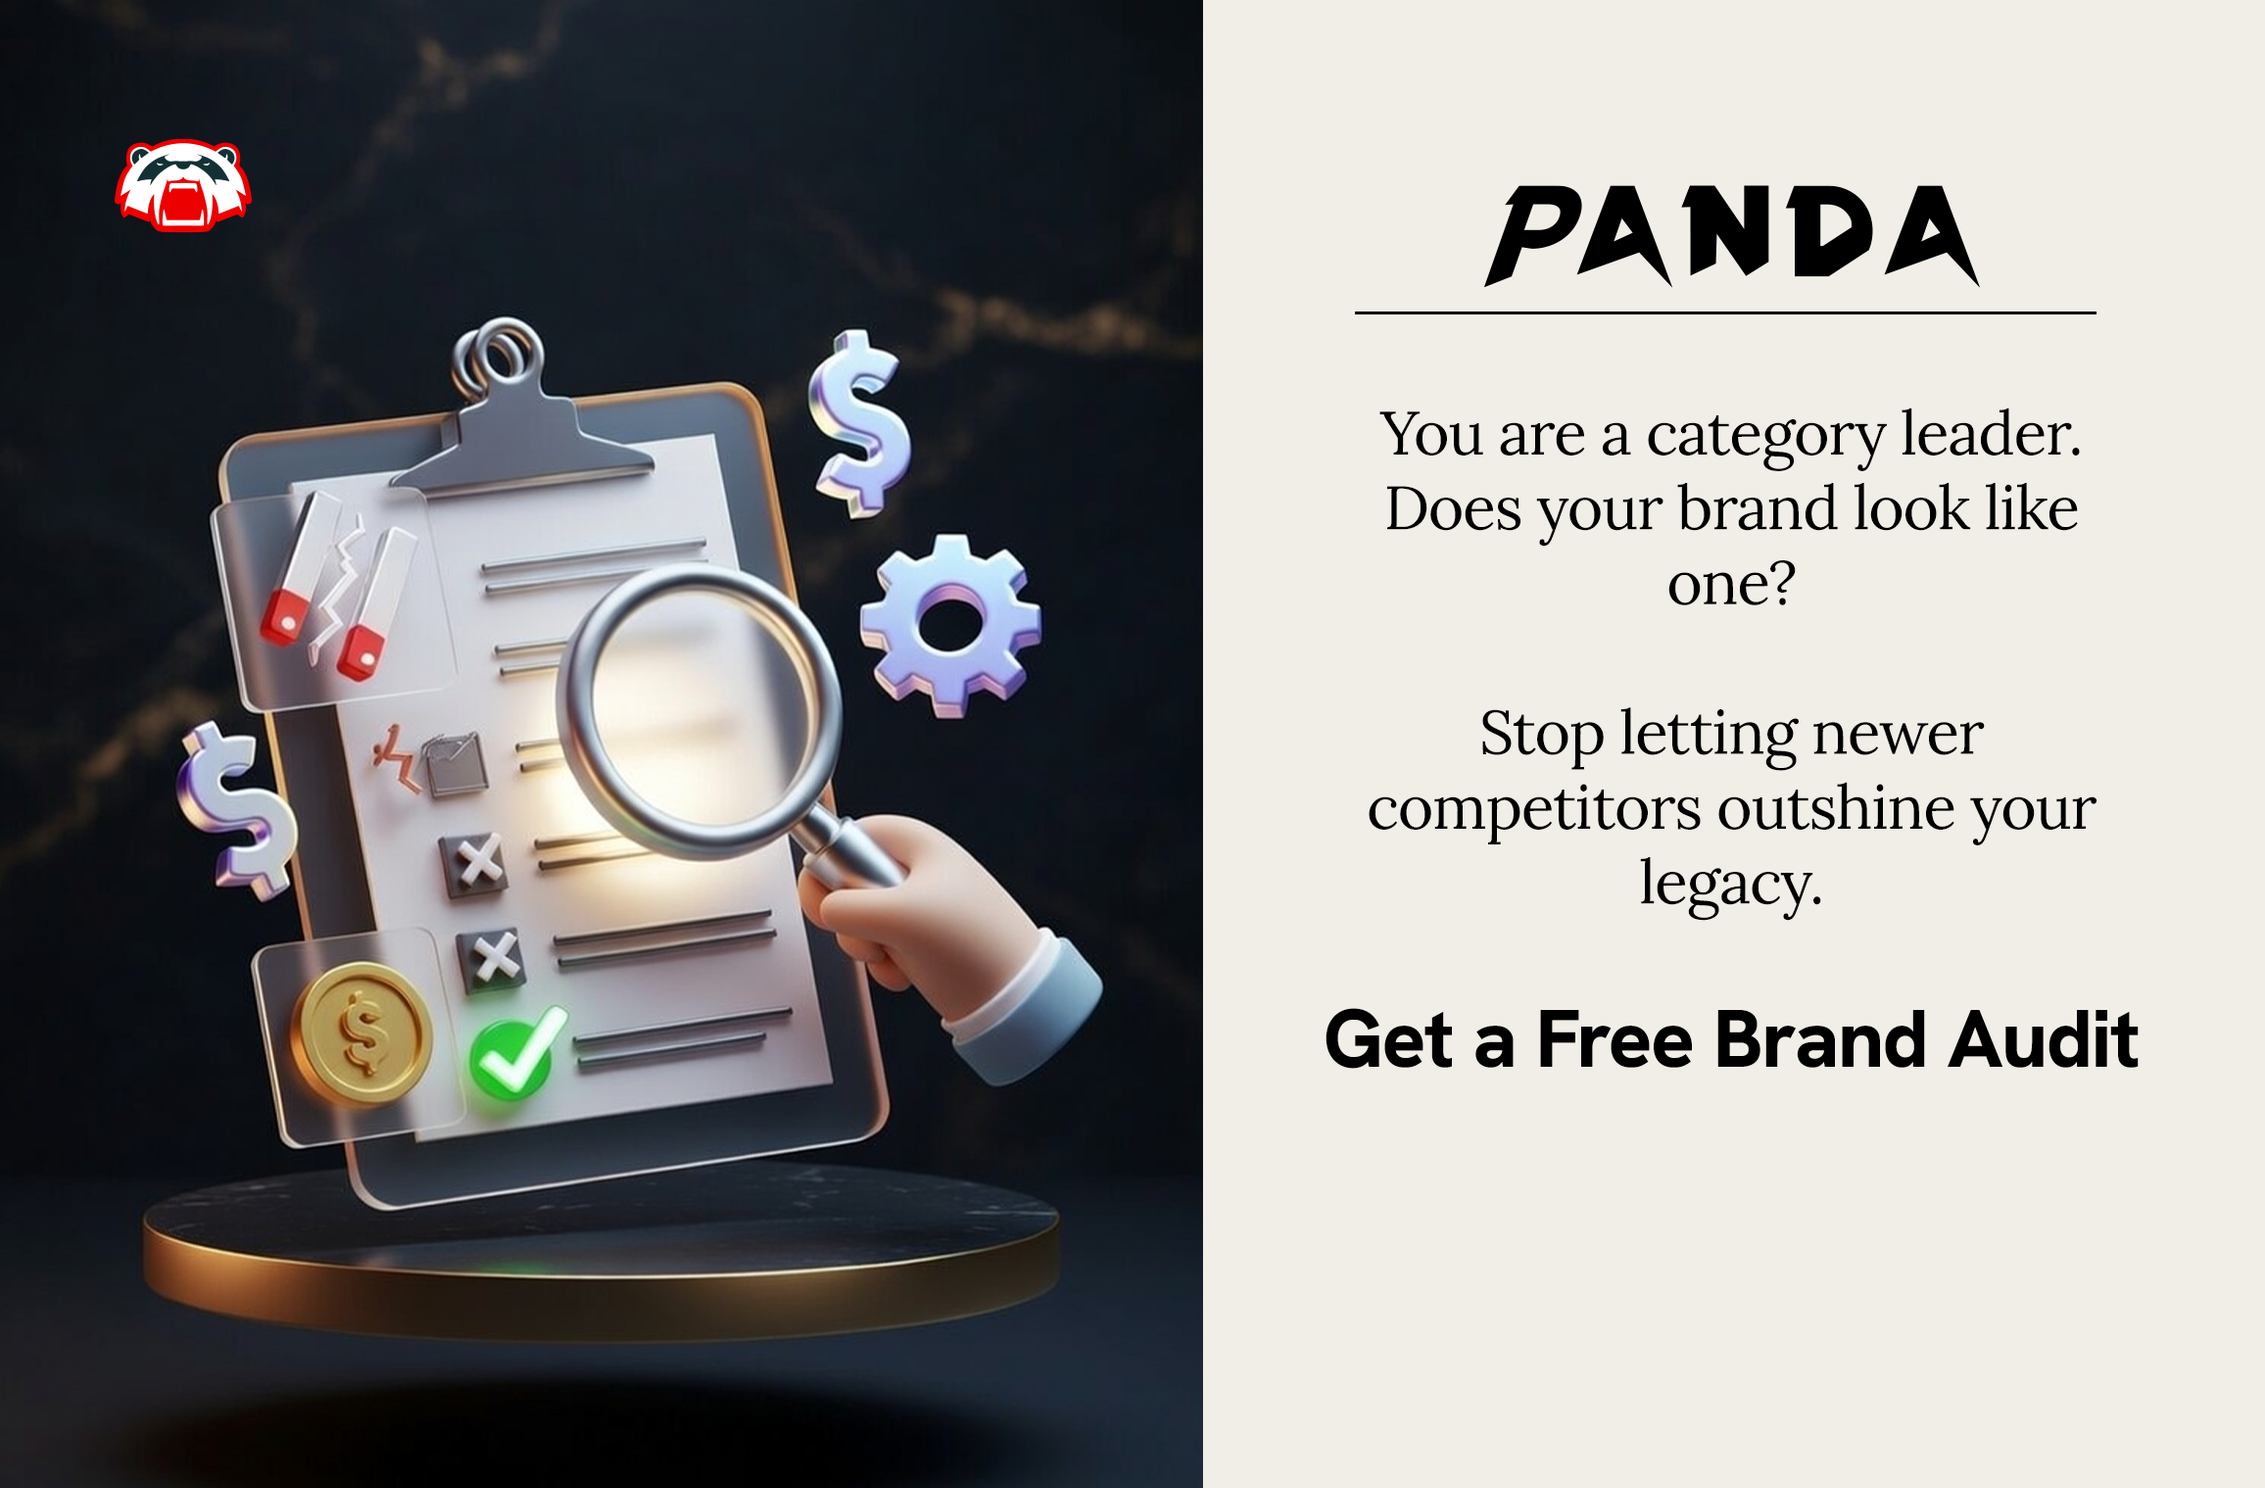
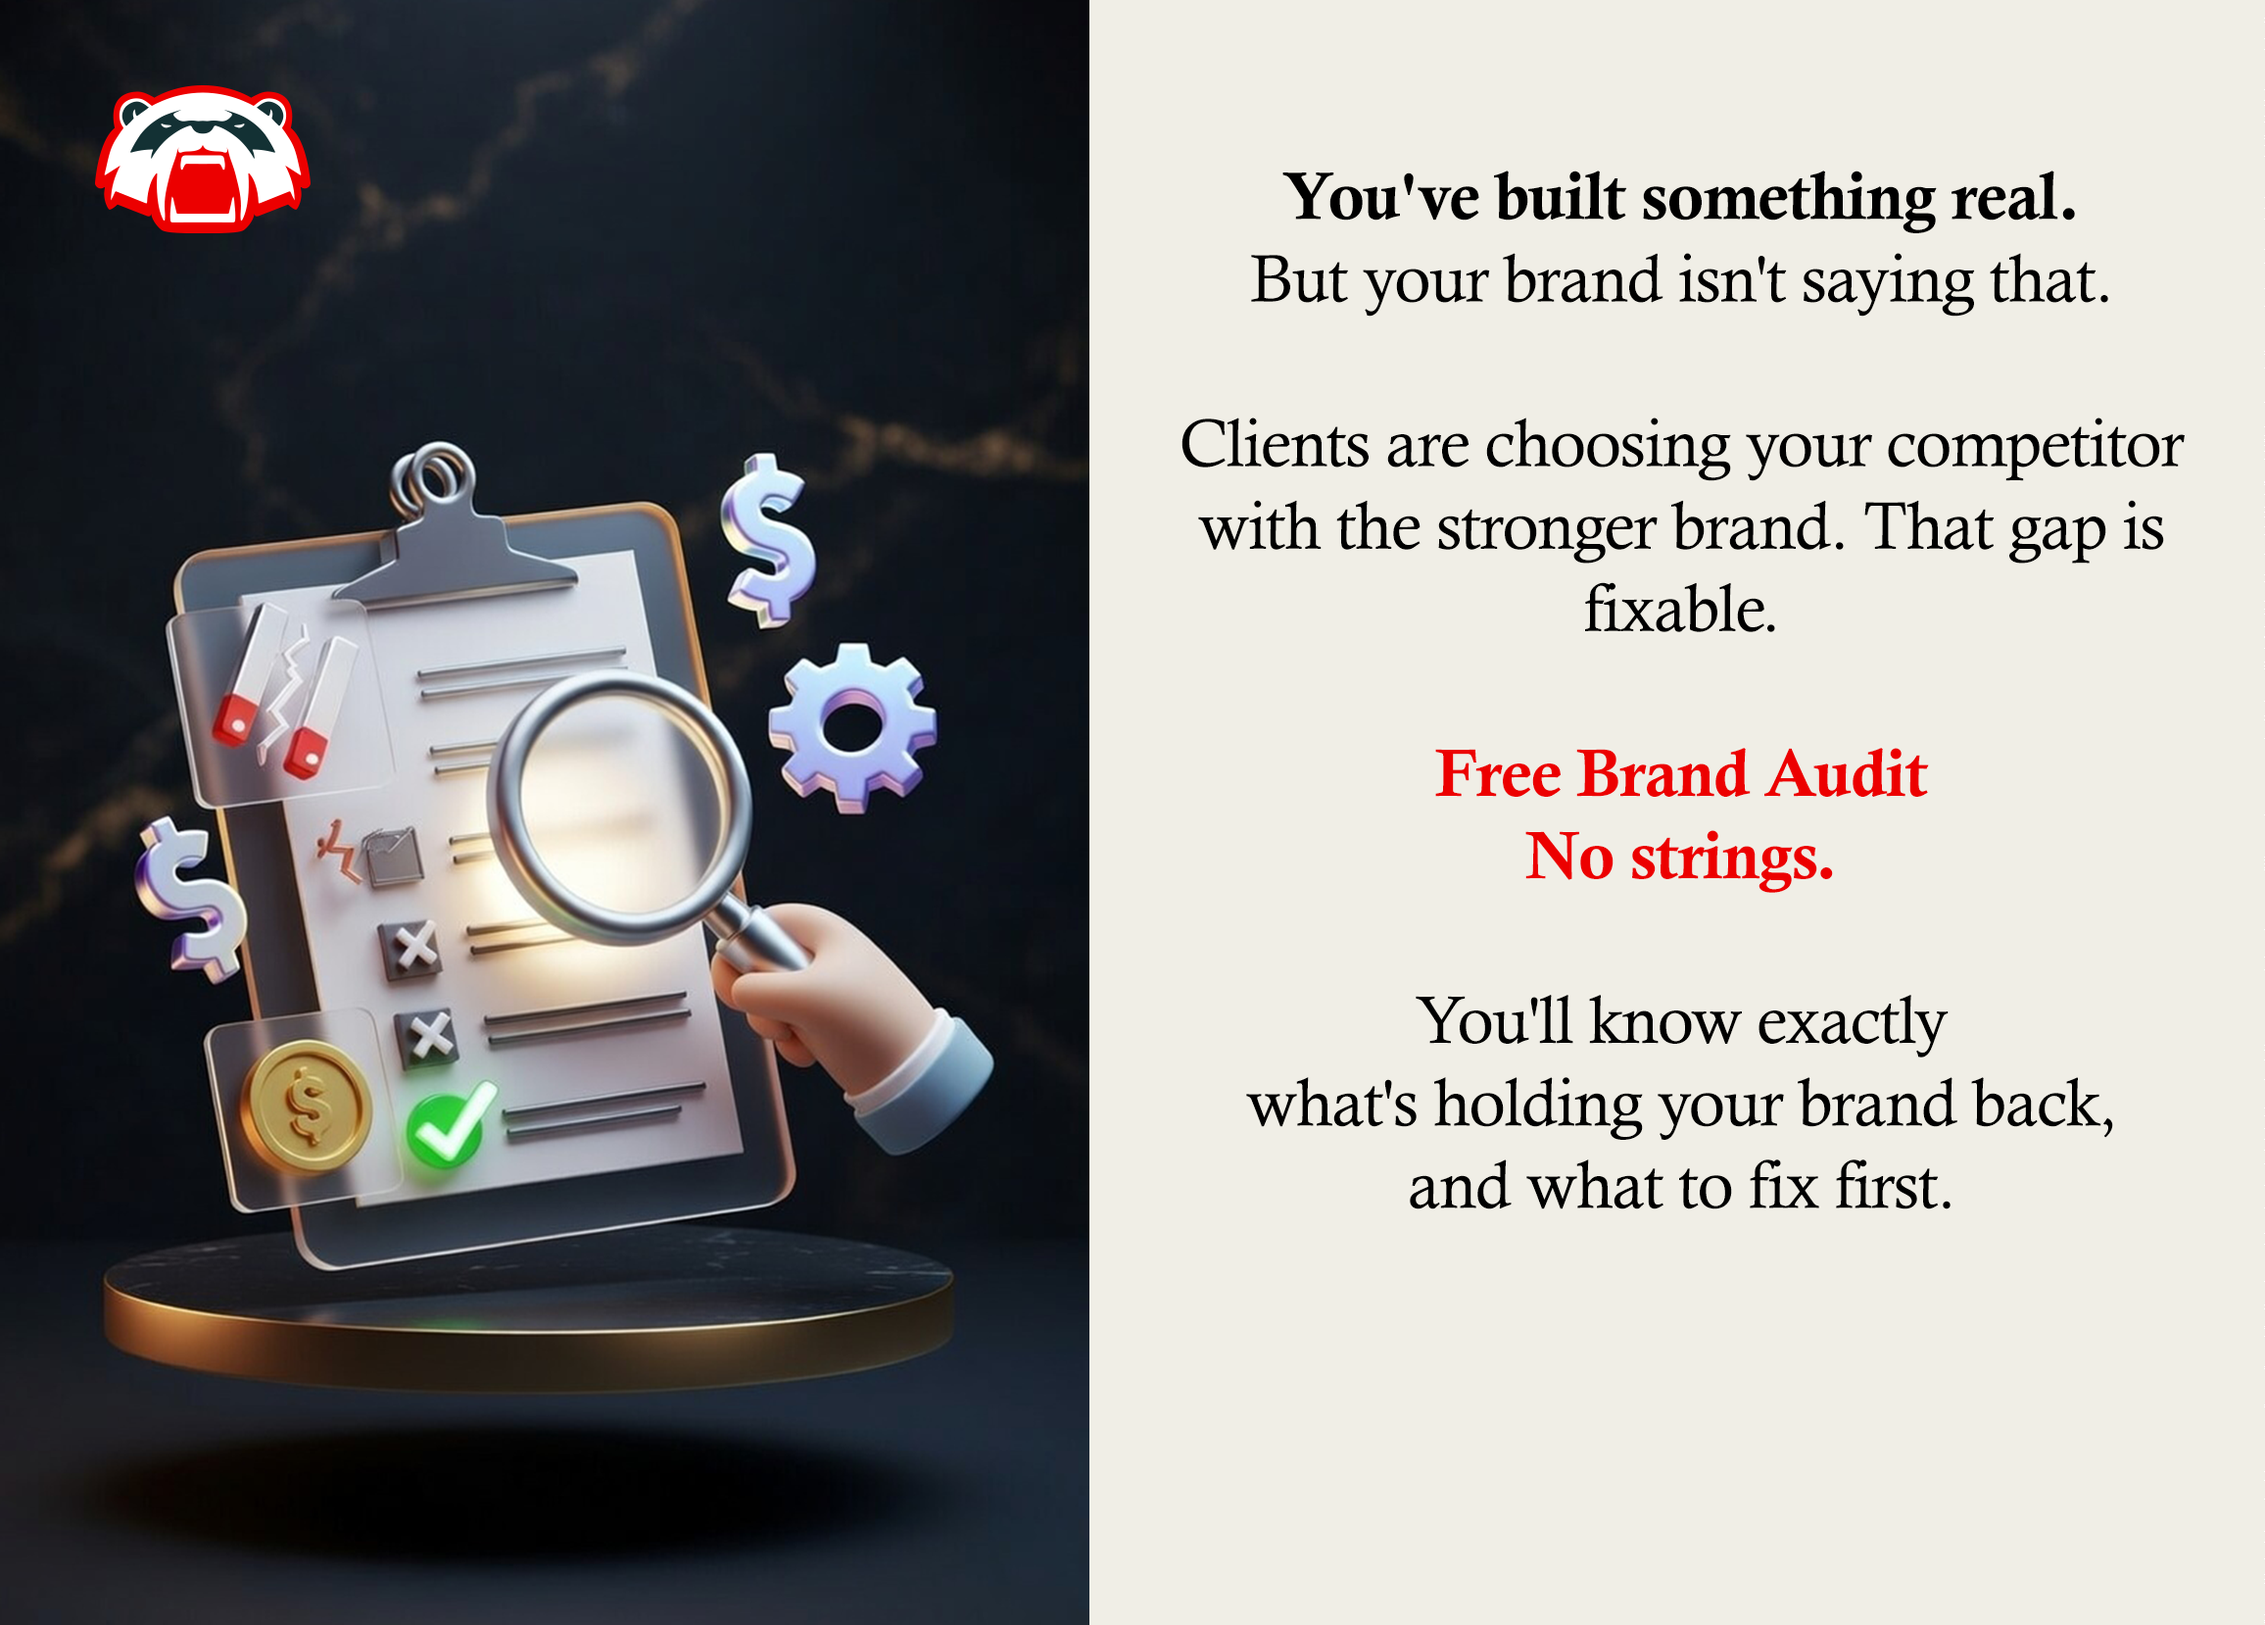
Popup: new design image, black pill button, updated copy
- New popup-offer.png with split dark/light layout
- Button: black pill (border-radius 100px), text 'Get My Free Audit'
- WhatsApp link unchanged

diff --git a/css/popup.css b/css/popup.css
@@ -63,58 +63,37 @@
     background: rgba(0, 0, 0, 0.6);
 }
 
-/* ── Glossy Claim Button ────────────────────────────────────────────────── */
+/* ── CTA Button ─────────────────────────────────────────────────────────── */
 #ps-popup-btn {
     position: absolute;
     bottom: 8%;
     left: 56%;
     right: 6%;
     text-align: center;
-    padding: 14px 20px;
-
-    /* Glossy red gradient */
-    background: linear-gradient(180deg,
-        #ff4040 0%,
-        #e00000 48%,
-        #c00000 49%,
-        #d40000 100%);
+    padding: 16px 24px;
+    background: #111;
     color: #fff;
     font-family: 'Montserrat', sans-serif;
     font-weight: 700;
-    font-size: 13px;
-    letter-spacing: 0.8px;
-    text-transform: uppercase;
+    font-size: 14px;
+    letter-spacing: 0.5px;
     text-decoration: none;
-    border-radius: 10px;
-
-    /* Gloss highlight top + depth shadow */
-    box-shadow:
-        inset 0 1px 0 rgba(255, 255, 255, 0.45),
-        inset 0 -1px 0 rgba(0, 0, 0, 0.2),
-        0 6px 18px rgba(180, 0, 0, 0.5),
-        0 2px 4px rgba(0, 0, 0, 0.3);
-
-    transition: transform 0.15s ease, box-shadow 0.15s ease, filter 0.15s ease;
+    border-radius: 100px;
+    box-shadow: 0 8px 24px rgba(0, 0, 0, 0.35);
+    transition: transform 0.15s ease, box-shadow 0.15s ease, background 0.15s ease;
     display: block;
 }
 
 #ps-popup-btn:hover {
     color: #fff;
-    filter: brightness(1.08);
+    background: #222;
     transform: translateY(-2px);
-    box-shadow:
-        inset 0 1px 0 rgba(255, 255, 255, 0.45),
-        inset 0 -1px 0 rgba(0, 0, 0, 0.2),
-        0 10px 24px rgba(180, 0, 0, 0.55),
-        0 4px 8px rgba(0, 0, 0, 0.3);
+    box-shadow: 0 12px 30px rgba(0, 0, 0, 0.45);
 }
 
 #ps-popup-btn:active {
-    transform: translateY(2px);
-    filter: brightness(0.95);
-    box-shadow:
-        inset 0 2px 4px rgba(0, 0, 0, 0.25),
-        0 2px 6px rgba(180, 0, 0, 0.3);
+    transform: translateY(1px);
+    box-shadow: 0 4px 12px rgba(0, 0, 0, 0.3);
 }
 
 /* ── Mobile ─────────────────────────────────────────────────────────────── */
@@ -124,12 +103,11 @@
     }
 
     #ps-popup-btn {
-        font-size: 11px;
-        padding: 11px 14px;
-        letter-spacing: 0.4px;
-        bottom: 4%;
-        left: 54%;
+        font-size: 12px;
+        padding: 13px 16px;
+        letter-spacing: 0.3px;
+        bottom: 5%;
+        left: 52%;
         right: 4%;
-        white-space: nowrap;
     }
 }

diff --git a/js/popup.js b/js/popup.js
@@ -10,7 +10,7 @@
             '<div id="ps-popup">' +
                 '<button id="ps-popup-close" aria-label="Close">&times;</button>' +
                 '<img src="assets/images/popup-offer.png" alt="Get a Free Brand Audit — Panda Studios">' +
-                '<a href="https://wa.me/+256772233050?text=Claiming+the+Brand+Audit" target="_blank" rel="noopener noreferrer" id="ps-popup-btn">Claim it now</a>' +
+                '<a href="https://wa.me/+256772233050?text=Claiming+the+Brand+Audit" target="_blank" rel="noopener noreferrer" id="ps-popup-btn">Get My Free Audit</a>' +
             '</div>' +
         '</div>';
 
